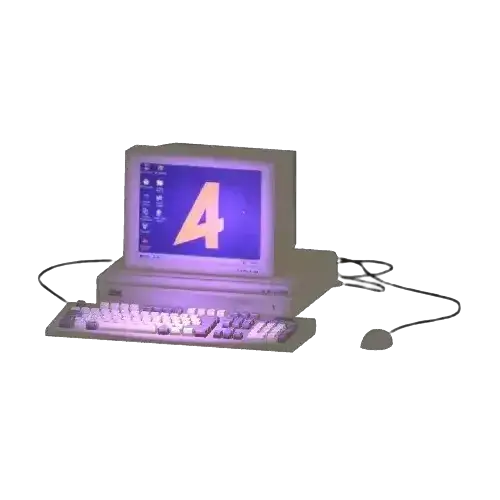
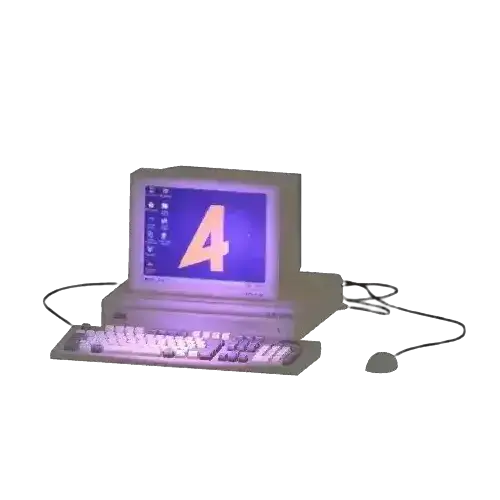
fix(ui): update 3D model components with centralized thumbnail paths and improved scaling
- Replace hardcoded thumbnail paths with centralized ThumbnailPaths constant
- Remove manual model positioning in favor of unified scaling configuration
- Add minHorizontalScale property to ensure visibility on narrow screens
- Update model scales for better visual consistency across all 3D components
- Remove unused GLTF type imports from component files

Changed region(s): [[0.09, 0.27, 0.93, 0.75], [0.06, 0.54, 0.09, 0.57]]

diff --git a/src/presentation/src/shared/components/ThreeDimensionalModel/Envelope3DModel.tsx b/src/presentation/src/shared/components/ThreeDimensionalModel/Envelope3DModel.tsx
@@ -1,6 +1,5 @@
 import { Scene, AmbientLight, DirectionalLight } from "three";
 import { OrbitControls } from "three/examples/jsm/controls/OrbitControls.js";
-import type { GLTF } from "three/examples/jsm/Addons.js";
 import { TranslationKeys } from "@domain/data/Translations";
 import LoadingModelPreview from "./Loading3DModelPreview";
 import ThreeDimensionModelViewer from "@packages/acore-solidjs/ui/components/ThreeDimensionModelViewer";
@@ -8,7 +7,7 @@ import { DRACO_DIRECTORY } from "./constants/draco";
 import ModelPaths from "@shared/constants/ModelPaths";
 import type { Model3DConfig } from "./models";
 import { DefaultConfigs } from "./constants/defaultConfigs";
-const EnvelopeModelPreview = "/home/ac/Models/envelope/envelope-thumbnail.webp";
+import ThumbnailPaths from "@shared/constants/ThumbnailPaths";
 
 type Props = {
   class?: string;
@@ -48,26 +47,20 @@ export default function Envelope3DModel(props: Props) {
     controls.autoRotateSpeed = animationConfig.autoRotateSpeed ?? 2;
   }
 
-  function configureModel(gltf: GLTF) {
-    gltf.scene.position.y = -2;
-    gltf.scene.position.x = 0.2;
-    gltf.scene.position.z = 0;
-  }
-
   return (
     <ThreeDimensionModelViewer
       decoderPath={DRACO_DIRECTORY}
       modelPath={MODEL}
-      modelScale={0.053}
+      modelScale={1.4}
       configureScene={configureScene}
-      configureModel={configureModel}
       configureControls={configureControls}
       autoRotate={config.animation?.enableAutoRotate}
       enableInitialAnimation={config.animation?.enableInitialAnimation}
       initializationDelay={config.animation?.initializationDelay}
+      minHorizontalScale={config.minHorizontalScale ?? 7}
       class={props.class}
       loadingElement={
-        <LoadingModelPreview src={EnvelopeModelPreview} alt={TranslationKeys.common_envelope} class="size-[80%]" />
+        <LoadingModelPreview src={ThumbnailPaths.ENVELOPE} alt={TranslationKeys.common_envelope} class="size-[80%]" />
       }
     />
   );

diff --git a/src/presentation/src/shared/components/ThreeDimensionalModel/Doom3DModel.tsx b/src/presentation/src/shared/components/ThreeDimensionalModel/Doom3DModel.tsx
@@ -1,6 +1,5 @@
 import { Scene, DirectionalLight } from "three";
 import { OrbitControls } from "three/examples/jsm/controls/OrbitControls.js";
-import type { GLTF } from "three/examples/jsm/Addons.js";
 import { TranslationKeys } from "@domain/data/Translations";
 import LoadingModelPreview from "./Loading3DModelPreview";
 import ThreeDimensionModelViewer from "@packages/acore-solidjs/ui/components/ThreeDimensionModelViewer";
@@ -8,7 +7,7 @@ import { DRACO_DIRECTORY } from "./constants/draco";
 import ModelPaths from "@shared/constants/ModelPaths";
 import type { Model3DConfig } from "./models";
 import { DefaultConfigs } from "./constants/defaultConfigs";
-const DoomModelPreview = "/home/ac/Models/doom/doom-thumbnail.webp";
+import ThumbnailPaths from "@shared/constants/ThumbnailPaths";
 
 type Props = {
   class?: string;
@@ -50,25 +49,20 @@ export default function Doom3DModel(props: Props) {
     controls.autoRotateSpeed = animationConfig.autoRotateSpeed ?? 2;
   }
 
-  function configureModel(gltf: GLTF) {
-    gltf.scene.position.x = -2.3;
-    gltf.scene.position.y = -2.9;
-  }
-
   return (
     <ThreeDimensionModelViewer
       decoderPath={DRACO_DIRECTORY}
       modelPath={MODEL}
-      modelScale={0.22}
+      modelScale={0.8}
       configureScene={configureScene}
-      configureModel={configureModel}
       configureControls={configureControls}
       autoRotate={config.animation?.enableAutoRotate}
       enableInitialAnimation={config.animation?.enableInitialAnimation}
       initializationDelay={config.animation?.initializationDelay}
+      minHorizontalScale={config.minHorizontalScale ?? 7}
       class={props.class}
       loadingElement={
-        <LoadingModelPreview src={DoomModelPreview} alt={TranslationKeys.apps_doom} class="h-[100%] w-[100%]" />
+        <LoadingModelPreview src={ThumbnailPaths.DOOM} alt={TranslationKeys.apps_doom} class="h-[100%] w-[100%]" />
       }
     />
   );

diff --git a/src/presentation/src/shared/components/ThreeDimensionalModel/Terminal3DModel.tsx b/src/presentation/src/shared/components/ThreeDimensionalModel/Terminal3DModel.tsx
@@ -8,7 +8,7 @@ import { DRACO_DIRECTORY } from "./constants/draco";
 import ModelPaths from "@shared/constants/ModelPaths";
 import type { Model3DConfig } from "./models";
 import { DefaultConfigs } from "./constants/defaultConfigs";
-const TerminalModelPreview = "/home/ac/Models/terminal/terminal-thumbnail.webp";
+import ThumbnailPaths from "@shared/constants/ThumbnailPaths";
 
 type Props = {
   class?: string;
@@ -59,8 +59,7 @@ export default function Terminal3DModel(props: Props) {
   }
 
   function configureModel(gltf: GLTF) {
-    gltf.scene.position.x = 0;
-    gltf.scene.position.y = 0;
+    // Keep rotation if needed, but remove position as it's handled by normalization
     gltf.scene.rotation.y = 6;
   }
 
@@ -68,16 +67,21 @@ export default function Terminal3DModel(props: Props) {
     <ThreeDimensionModelViewer
       decoderPath={DRACO_DIRECTORY}
       modelPath={MODEL}
-      modelScale={2.9}
+      modelScale={0.9}
       configureScene={configureScene}
       configureModel={configureModel}
       configureControls={configureControls}
       autoRotate={config.animation?.enableAutoRotate}
       enableInitialAnimation={config.animation?.enableInitialAnimation}
       initializationDelay={config.animation?.initializationDelay}
+      minHorizontalScale={config.minHorizontalScale ?? 7}
       class={props.class}
       loadingElement={
-        <LoadingModelPreview src={TerminalModelPreview} alt={TranslationKeys.apps_terminal} class="h-[85%] w-[85%]" />
+        <LoadingModelPreview
+          src={ThumbnailPaths.TERMINAL}
+          alt={TranslationKeys.apps_terminal}
+          class="h-[85%] w-[85%]"
+        />
       }
     />
   );

diff --git a/src/presentation/src/shared/components/ThreeDimensionalModel/Computer3DModel.tsx b/src/presentation/src/shared/components/ThreeDimensionalModel/Computer3DModel.tsx
@@ -7,8 +7,7 @@ import { DRACO_DIRECTORY } from "./constants/draco";
 import ModelPaths from "@shared/constants/ModelPaths";
 import type { Model3DConfig } from "./models";
 import { DefaultConfigs } from "./constants/defaultConfigs";
-import type { GLTF } from "three/examples/jsm/loaders/GLTFLoader.js";
-const ComputerModelPreview = "/home/ac/Models/computer/computer-thumbnail.webp";
+import ThumbnailPaths from "@shared/constants/ThumbnailPaths";
 
 type Props = {
   class?: string;
@@ -50,18 +49,12 @@ export default function Computer3DModel(props: Props) {
     controls.autoRotateSpeed = animationConfig.autoRotateSpeed ?? 2;
   }
 
-  function configureModel(gltf: GLTF) {
-    gltf.scene.position.y = 0.7;
-    gltf.scene.position.x = -0.8;
-    gltf.scene.position.z = 0;
-  }
-
   return (
     <ThreeDimensionModelViewer
       decoderPath={DRACO_DIRECTORY}
       modelPath={MODEL}
-      modelScale={16}
-      configureModel={configureModel}
+      modelScale={1.5}
+      minHorizontalScale={config.minHorizontalScale ?? 7}
       configureScene={configureScene}
       configureControls={configureControls}
       autoRotate={config.animation?.enableAutoRotate}
@@ -69,7 +62,7 @@ export default function Computer3DModel(props: Props) {
       initializationDelay={config.animation?.initializationDelay}
       class={props.class}
       loadingElement={
-        <LoadingModelPreview src={ComputerModelPreview} alt={TranslationKeys.common_computer} class="size-[100%]" />
+        <LoadingModelPreview src={ThumbnailPaths.COMPUTER} alt={TranslationKeys.common_computer} class="size-[100%]" />
       }
     />
   );

diff --git a/src/presentation/src/shared/components/ThreeDimensionalModel/models/Model3DConfig.ts b/src/presentation/src/shared/components/ThreeDimensionalModel/models/Model3DConfig.ts
@@ -4,4 +4,8 @@ import type { ModelAnimationConfig } from "./ModelAnimationConfig";
 export interface Model3DConfig {
   controls?: ModelControlsConfig;
   animation?: ModelAnimationConfig;
+  /**
+   * Minimum horizontal scale (in world units) to ensure visibility on narrow screens.
+   */
+  minHorizontalScale?: number;
 }
